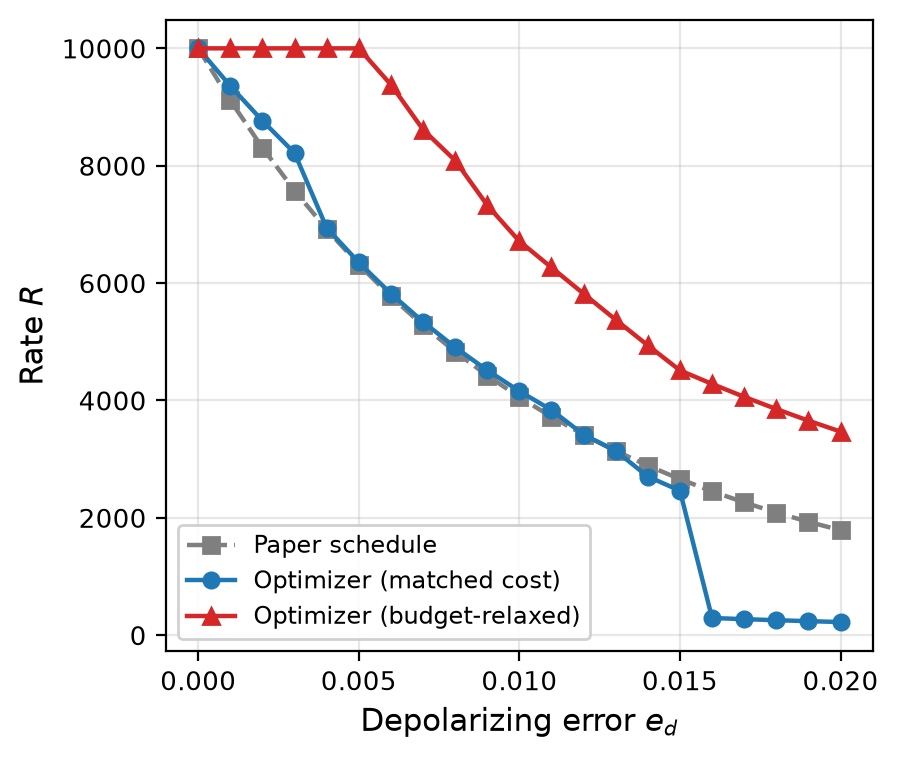
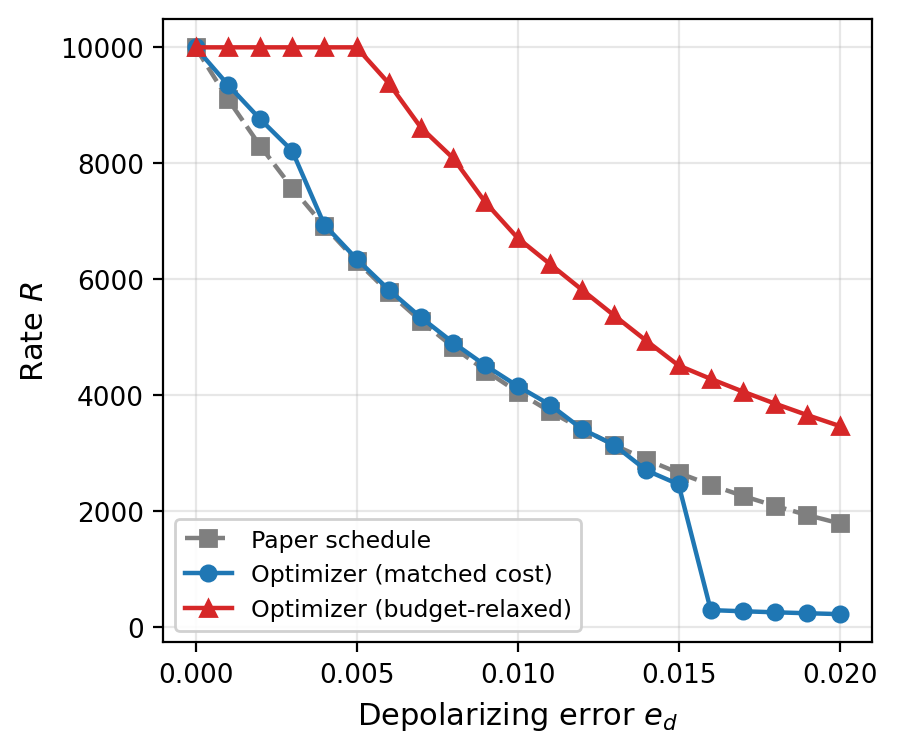
feat: enhance figure generation for Chapter 6 e_d-sweep with improved axis formatting and updated plots

diff --git a/experiments/thesis_scripts/_thesis_fig_edsweep.py b/experiments/thesis_scripts/_thesis_fig_edsweep.py
@@ -1,6 +1,8 @@
 """
 experiments/_thesis_fig_edsweep.py
+
 ====================================
+
 One-off regeneration of the Chapter 6 e_d-sweep figures (Figure 6.1) for
 thesis placement (two 0.48\\textwidth subfigures side by side), matching
 the sizing/legend conventions used by `_thesis_fig_pareto.py`.
@@ -19,6 +21,7 @@ half the thesis text width.
 
 Usage
 -----
+
     .venv/bin/python3 experiments/_thesis_fig_edsweep.py
 """
 
@@ -33,6 +36,7 @@ _PROJECT_ROOT = Path(__file__).resolve().parents[2]
 sys.path.insert(0, str(_PROJECT_ROOT / "src"))
 
 import matplotlib.pyplot as plt
+from matplotlib.ticker import FormatStrFormatter, MultipleLocator
 
 OUT_DIR = _PROJECT_ROOT / "thesis" / "figures" / "results"
 CSV_PATH = _PROJECT_ROOT / "outputs" / "sweep_ed_n10" / "results_extended.csv"
@@ -42,36 +46,67 @@ DPI = 200
 
 STYLE = {
     "paper_baseline": dict(
-        color="#7f7f7f", marker="s", linestyle="--", label="Paper schedule"
+        color="#7f7f7f",
+        marker="s",
+        linestyle="--",
+        label="Paper schedule",
     ),
     "optimizer_matched_cost": dict(
-        color="#1f77b4", marker="o", linestyle="-", label="Optimizer (matched cost)"
+        color="#1f77b4",
+        marker="o",
+        linestyle="-",
+        label="Optimizer (matched cost)",
     ),
     "optimizer_budget_relaxed": dict(
-        color="#d62728", marker="^", linestyle="-", label="Optimizer (budget-relaxed)"
+        color="#d62728",
+        marker="^",
+        linestyle="-",
+        label="Optimizer (budget-relaxed)",
     ),
 }
-VARIANT_ORDER = ["paper_baseline", "optimizer_matched_cost", "optimizer_budget_relaxed"]
+
+VARIANT_ORDER = [
+    "paper_baseline",
+    "optimizer_matched_cost",
+    "optimizer_budget_relaxed",
+]
 
 
 def _read_series() -> dict[str, list[tuple[float, float, float]]]:
     """variant -> [(e_d, fidelity, rate), ...], sorted by e_d."""
     series: dict[str, list[tuple[float, float, float]]] = defaultdict(list)
+
     with CSV_PATH.open() as f:
         for row in csv.DictReader(f):
             v = row["variant"]
             if v not in STYLE:
                 continue
+
             series[v].append(
-                (float(row["e_d"]), float(row["fidelity"]), float(row["rate"]))
+                (
+                    float(row["e_d"]),
+                    float(row["fidelity"]),
+                    float(row["rate"]),
+                )
             )
+
     for v in series:
         series[v].sort(key=lambda t: t[0])
+
     return series
 
 
-def make_rate_plot(series: dict[str, list[tuple[float, float, float]]]) -> None:
+def _format_x_axis(ax) -> None:
+    """Use 0.005 spacing and three decimal places on the e_d axis."""
+    ax.xaxis.set_major_locator(MultipleLocator(0.005))
+    ax.xaxis.set_major_formatter(FormatStrFormatter("%.3f"))
+
+
+def make_rate_plot(
+    series: dict[str, list[tuple[float, float, float]]],
+) -> None:
     fig, ax = plt.subplots(figsize=FIGSIZE)
+
     for variant in VARIANT_ORDER:
         pts = series[variant]
         ax.plot(
@@ -81,18 +116,37 @@ def make_rate_plot(series: dict[str, list[tuple[float, float, float]]]) -> None:
             linewidth=1.6,
             **STYLE[variant],
         )
+
     ax.set_xlabel("Depolarizing error $e_d$", fontsize=11)
     ax.set_ylabel("Rate $R$", fontsize=11)
     ax.tick_params(labelsize=9.5)
+
+    # X-axis: ticks every 0.005, formatted as 0.000, 0.005, ...
+    _format_x_axis(ax)
+
     ax.grid(alpha=0.3)
-    ax.legend(fontsize=8.5, ncol=1, loc="lower left", framealpha=0.9)
+    ax.legend(
+        fontsize=8.5,
+        ncol=1,
+        loc="lower left",
+        framealpha=0.9,
+    )
+
     fig.tight_layout()
+
     for fmt in ("png", "svg"):
-        fig.savefig(OUT_DIR / f"rate_vs_ed.{fmt}", dpi=DPI, bbox_inches="tight")
+        fig.savefig(
+            OUT_DIR / f"rate_vs_ed.{fmt}",
+            dpi=DPI,
+            bbox_inches="tight",
+        )
+
     plt.close(fig)
 
 
-def make_fidelity_plot(series: dict[str, list[tuple[float, float, float]]]) -> None:
+def make_fidelity_plot(
+    series: dict[str, list[tuple[float, float, float]]],
+) -> None:
     fig, ax = plt.subplots(figsize=FIGSIZE)
     for variant in VARIANT_ORDER:
         pts = series[variant]
@@ -104,30 +158,32 @@ def make_fidelity_plot(series: dict[str, list[tuple[float, float, float]]]) -> N
             **STYLE[variant],
         )
     ax.axhline(
-        0.9, color="black", linestyle=":", linewidth=1.1, label="$F_{\\min}=0.9$"
-    )
-    ax.axvline(
-        0.01,
+        0.9,
         color="black",
-        linestyle="--",
-        linewidth=0.9,
-        alpha=0.6,
-        label="Paper's tested range ends",
+        linestyle=":",
+        linewidth=1.1,
+        label="$F_{\\min}=0.9$",
     )
     ax.set_xlabel("Depolarizing error $e_d$", fontsize=11)
     ax.set_ylabel("Fidelity $F$", fontsize=11)
     ax.tick_params(labelsize=9.5)
+    # X-axis: ticks every 0.005, formatted as 0.000, 0.005, ...
+    _format_x_axis(ax)
     ax.grid(alpha=0.3)
     ax.legend(
         fontsize=8.5,
-        ncol=2,
-        loc="upper center",
-        bbox_to_anchor=(0.5, -0.16),
-        frameon=False,
+        ncol=1,
+        loc="lower left",
+        framealpha=0.9,
     )
     fig.tight_layout()
     for fmt in ("png", "svg"):
-        fig.savefig(OUT_DIR / f"fidelity_vs_ed.{fmt}", dpi=DPI, bbox_inches="tight")
+        fig.savefig(
+            OUT_DIR / f"fidelity_vs_ed.{fmt}",
+            dpi=DPI,
+            bbox_inches="tight",
+        )
+
     plt.close(fig)
 
 
